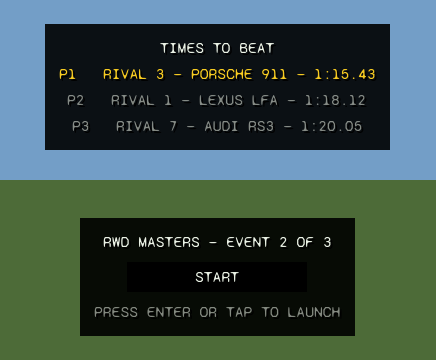
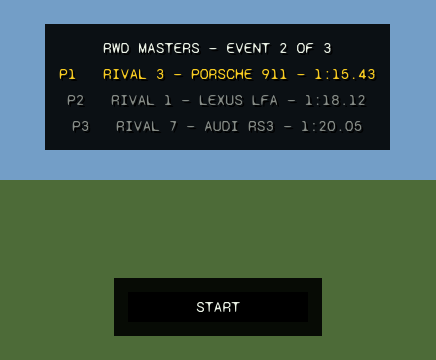
Slim the start-line reveal: event header on top, Start-only bottom card
Move the rally/event line up to head the times card (replacing the
generic "Times to Beat" title) and drop the "press enter or tap to
launch" hint, so the bottom card holds only the Start button.

Claude-Session: https://claude.ai/code/session_01SSsUUHp1th5TeGDYcSNECZ

Changed region(s): [[0.1789, 0.5806, 0.8349, 0.9472], [0.2385, 0.1222, 0.7156, 0.1528], [0.7454, 0.1222, 0.7752, 0.1528]]

diff --git a/rally/features/start-line.md b/rally/features/start-line.md
@@ -11,17 +11,17 @@ once the world is built and a [`RallySession`](rally-session.md) is active, whil
 car is held locked. Three phases, driven in `_process`:
 
 1. **REVEAL (orbit)** — **design-system** (`UITheme`) black house panels show the
-   **TIMES TO BEAT**: the **top three rivals** for this stage, fastest first, each as
+   times to beat: the **top three rivals** for this stage, fastest first, each as
    `P{n}  Driver — Car — m:ss.cc` (`RallySession.current_event_leaders(3)`; the leader
    is the gold **time to beat**, the chasers are dimmed, the car is dropped when
    unknown, and a single `—` stands in when no rival has a time yet). The panels follow
    the house rules (pure-black, uppercase, one font size) and **hug the top and bottom
    edges** with an expanding gap between — so the opaque panels never cover the
-   orbiting car, which shows through the **clear centre band**. The top card carries the
-   times; the bottom card carries the `Rally — Event N of 3` subtitle, the **Start**
-   button and the launch hint. Behind it an **orbit camera** circles the car, which is
-   queued between a **leader** car ahead and a **trailing** car behind. The driving HUD
-   + mobile controls are hidden. Launch with the button, `menu_select` (Enter / gamepad
+   orbiting car, which shows through the **clear centre band**. The top card is headed
+   by the `Rally — Event N of 3` line and carries the times; the bottom card holds just
+   the **Start** button. Behind it an **orbit camera** circles the car, which is queued
+   between a **leader** car ahead and a **trailing** car behind. The driving HUD +
+   mobile controls are hidden. Launch with the button, `menu_select` (Enter / gamepad
    A), or a tap.
 2. **DRIVE-OFF (launch)** — a **staggered rolling start**: the leader (sitting **on the
    line**) pulls away first, then one `start_queue_stagger_seconds` later the **player